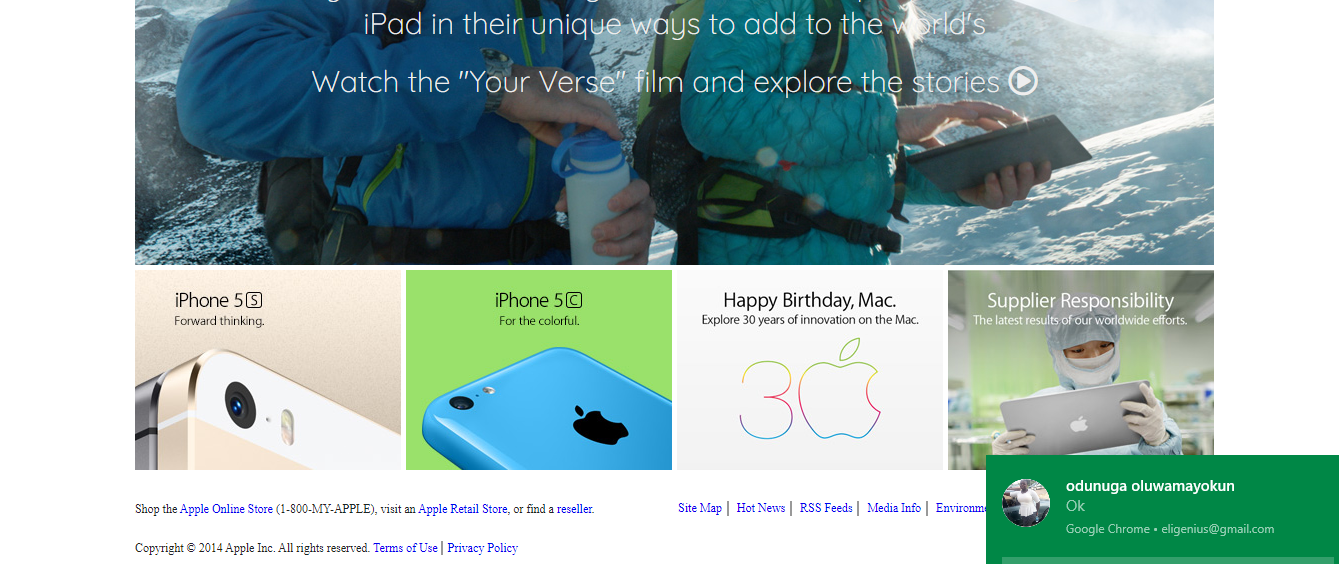
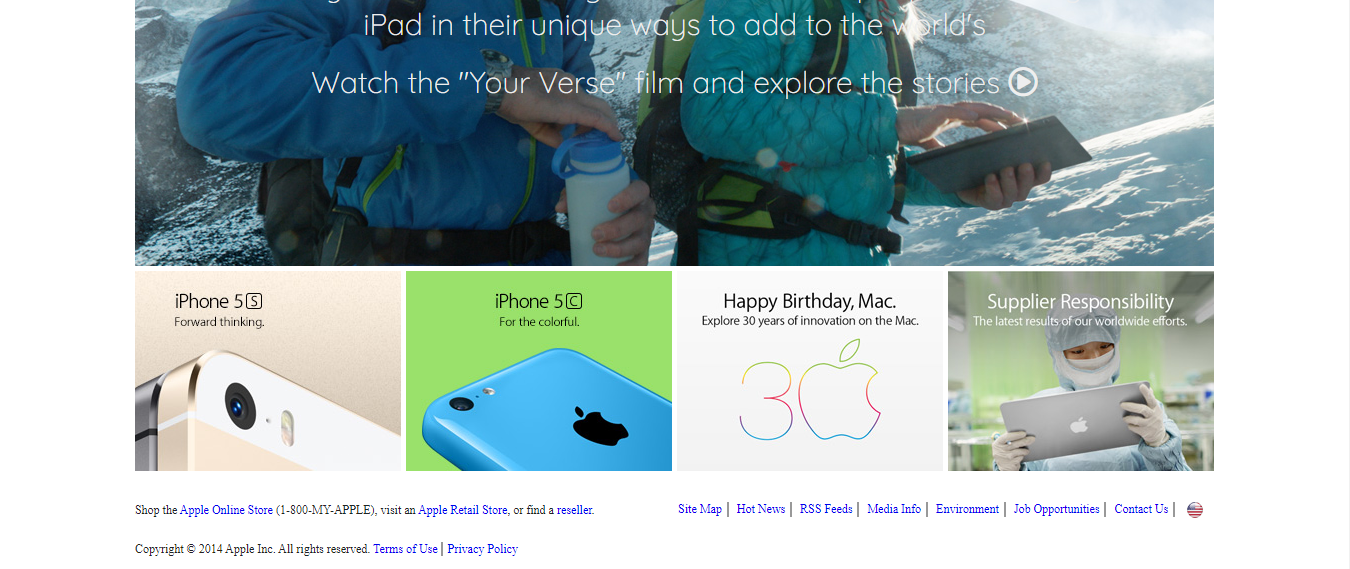
make content full width

diff --git a/style.css b/style.css
@@ -1,38 +1,27 @@
 body {
-    width: 80%;
+    width: 100%;
     margin: auto;
 }
 
 main {
     width: 100%;
     margin: auto;
-    /* padding-top: 10px; */
 }
 
 .sect1 {
-    margin-top: 10px;
     padding-top: 50px;
-    /* margin: auto; */
-    /* width: 80%;
-    margin: auto;
-    margin-top: 10px;
-    padding: 10px; */
-    /* background-image: url(https://archive.fo/UW4oR/c737ac2a39d31e8407c5d08a73daddc5ddcf5d3e.jpg); */
     background: url(https://archive.fo/UW4oR/c737ac2a39d31e8407c5d08a73daddc5ddcf5d3e.jpg) no-repeat bottom center;
     height: 500px;
-
 }
 
 .sect1 nav {
     width: 90%;
     margin: auto;
     margin-top: 40px;
-    /* margin: 70px 0; */
 }
 
 .fa-apple {
     color: #DBDCDD;
-    /* color: #D7D8D9; */
     font-size: 30px;
 }
 
@@ -87,7 +76,6 @@ nav li:nth-last-of-type(1) {
     margin-top: 20px;
     font-family: 'Quicksand', sans-serif;
     font-size: 30px;
-    /* font-family: Roboto; */
 }
 
 .sect1 p:nth-of-type(1) {
@@ -102,9 +90,6 @@ main {
 }
 
 .sect2 {
-    /* width: 80%; */
-    /* padding: 10px; */
-    /* padding-left: 0; */
     margin: auto;
     margin-top: 5px;
     display: grid;
@@ -113,17 +98,10 @@ main {
 }
 
 .sect2 div {
-    /* width: 25%; */
     height: 200px;
     width: 100%;
-    /* display: inline-block; */
-    /* margin: auto; */
 }
 
-/* #divone {
-    height: 200px;
-    background: url(./img/iphone5.jpg);
-} */
 .sect2 div:nth-of-type(1) {
     background: url(./img/iphone5.jpg) no-repeat center right;
 }
@@ -183,7 +161,6 @@ footer p span {
         margin-top: 20px;
         font-family: 'Quicksand', sans-serif;
         font-size: 27px;
-        /* font-family: Roboto; */
     }
 
     .sect1 p:nth-of-type(1) {
@@ -227,7 +204,6 @@ footer p span {
         margin-top: 20px;
         font-family: 'Quicksand', sans-serif;
         font-size: 25px;
-        /* font-family: Roboto; */
     }
 
     .sect1 p:nth-of-type(1) {

diff --git a/index.html b/index.html
@@ -7,16 +7,13 @@
     <title>Welcome to Apple</title>
     <link rel="stylesheet" href="reset.css">
     <link rel="stylesheet" href="style.css">
-    <!-- <script src="https://use.fontawesome.com/94ce45a68f.js"></script> -->
-    <!-- <link rel="stylesheet" href="https://stackpath.bootstrapcdn.com/font-awesome/4.7.0/css/font-awesome.min.css"> -->
-    <!-- <link href="https://stackpath.bootstrapcdn.com/font-awesome/4.7.0/css/font-awesome.min.css" rel="stylesheet" integrity="sha384-wvfXpqpZZVQGK6TAh5PVlGOfQNHSoD2xbE+QkPxCAFlNEevoEH3Sl0sibVcOQVnN" crossorigin="anonymous"> -->
     <link href="https://cdnjs.cloudflare.com/ajax/libs/font-awesome/5.13.0/css/all.min.css" rel="stylesheet" />
     <link href="https://fonts.googleapis.com/css2?family=Quicksand:wght@300&display=swap" rel="stylesheet">
 </head>
 
 <body>
     <main>
-        <section class="sect1">
+        <div class="sect1">
             <nav>
                 <ul>
                     <li><i class="fab fa-apple"></i></li>
@@ -34,14 +31,14 @@
             <p>Everyone has something to share. See how people are using iPad in their unique ways to add to the world's
             </p>
             <p>Watch the "Your Verse" film and explore the stories <i class="far fa-play-circle"></i></p>
-        </section>
+        </div>
 
-        <section class="sect2">
+        <div class="sect2">
             <div></div>
             <div></div>
             <div></div>
             <div></div>
-        </section>
+        </div>
 
     </main>
     <footer>
